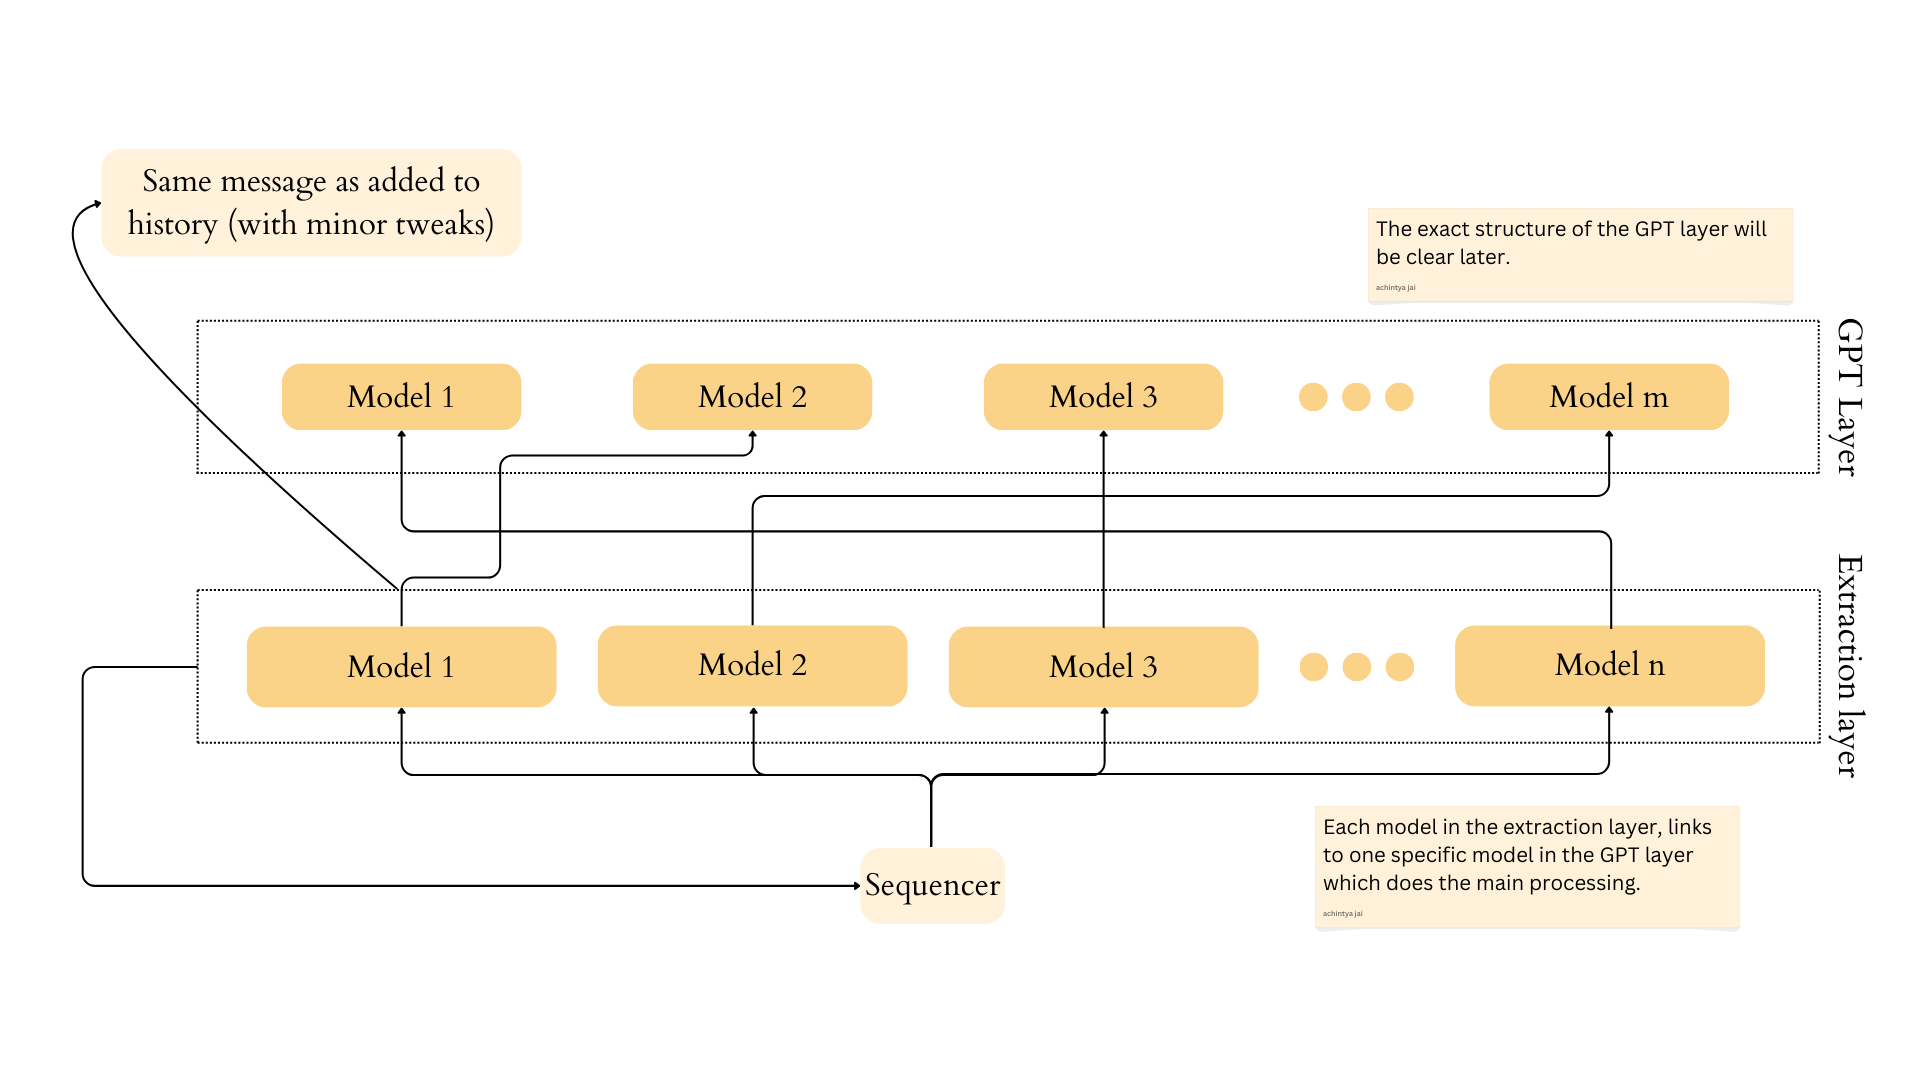
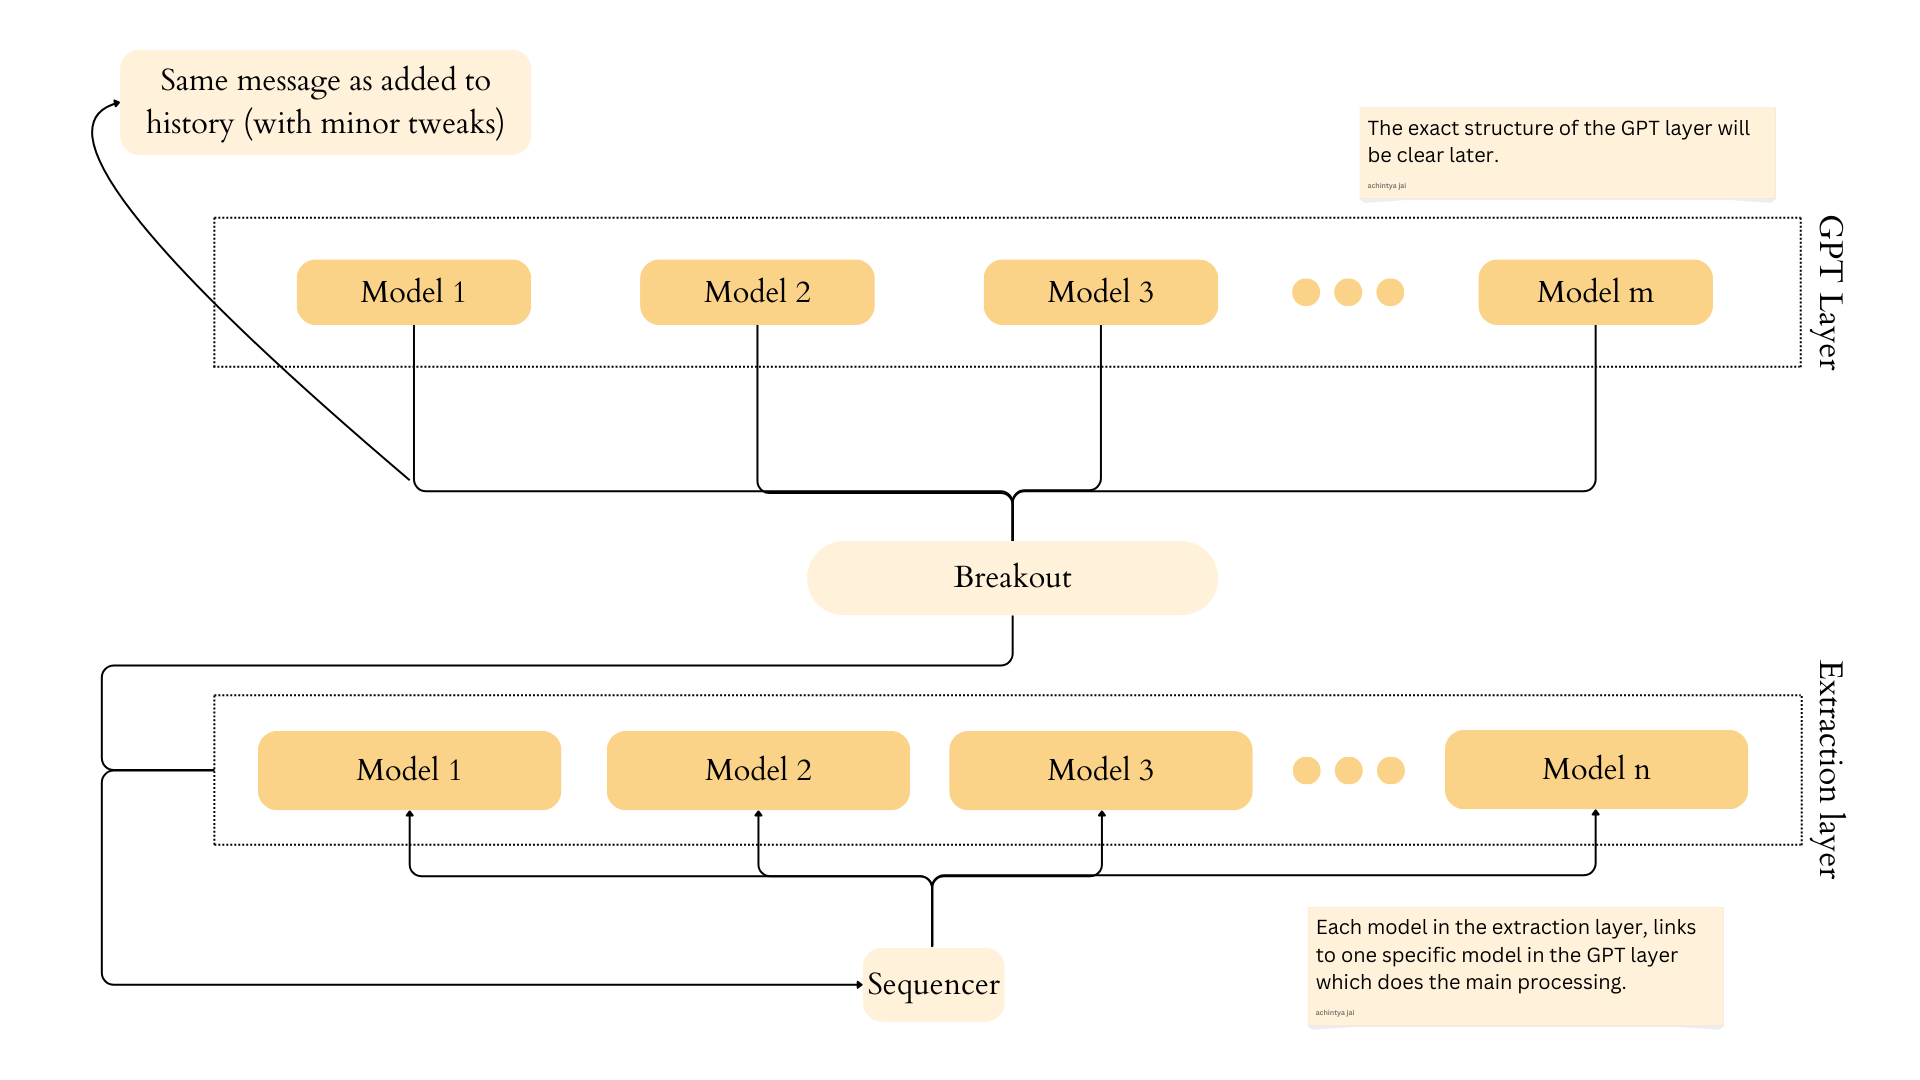
updated structure

diff --git a/extraction_models/client_5003.py b/extraction_models/client_5003.py
@@ -8,13 +8,21 @@ from google.generativeai.types import HarmCategory, HarmBlockThreshold
 import google.generativeai as genai
 from address import prompt_dict
 
+# -------------------------------------------------------------------------------------------------------------------------------------------------------------------
+#                                                                           GPT initializations
+# -------------------------------------------------------------------------------------------------------------------------------------------------------------------
+
 NAME = 'client_5003'
 
-API_KEY = "AIzaSyDgtJZg8o9fYUlJm9xeYNkRwzQ2nbZiHQI"   # Enter your API key here
+API_KEY = "AIzaSyDgtJZg8o9fYUlJm9xeYNkRwzQ2nbZiHQI"
 genai.configure(api_key=API_KEY)
 
 model = genai.GenerativeModel('gemini-pro')
 chat = model.start_chat(history=[])
+
+# -------------------------------------------------------------------------------------------------------------------------------------------------------------------
+#                                                                         Receiver and Sender class
+# -------------------------------------------------------------------------------------------------------------------------------------------------------------------
 
 class ReceiverSender:
     '''

diff --git a/extraction_models/client_5002.py b/extraction_models/client_5002.py
@@ -11,9 +11,10 @@ from address import prompt_dict
 # -------------------------------------------------------------------------------------------------------------------------------------------------------------------
 #                                                                           GPT initializations
 # -------------------------------------------------------------------------------------------------------------------------------------------------------------------
+
 NAME = 'client_5002'
 
-API_KEY = "AIzaSyDgtJZg8o9fYUlJm9xeYNkRwzQ2nbZiHQI"   # Enter your API key here
+API_KEY = ""
 genai.configure(api_key=API_KEY)
 
 model = genai.GenerativeModel('gemini-pro')

diff --git a/extraction_models/client_5001.py b/extraction_models/client_5001.py
@@ -11,6 +11,7 @@ from address import prompt_dict
 # -------------------------------------------------------------------------------------------------------------------------------------------------------------------
 #                                                                           GPT initializations
 # -------------------------------------------------------------------------------------------------------------------------------------------------------------------
+
 NAME = 'client_5001'
 
 API_KEY = "AIzaSyDgtJZg8o9fYUlJm9xeYNkRwzQ2nbZiHQI"

diff --git a/Sequencer/README.md b/Sequencer/README.md
@@ -5,10 +5,14 @@ Functionality
 - [x] Broadcast user's message to all clients.
 - [x] Receive feedback, that is, which model fired up and what the response was.
 
-The response will either be a binary or a tertiary, no more that than.
+> [!NOTE]
+> The response will either be a binary or a tertiary, no more that than.
 
-- [ ] Connect to supabase and push the feedback.
-- [ ] Before broadcasting, pull from database and add that to the user's message, explicitly mentioning it as `history`.
+- [x] Connect to supabase and push the feedback.
+- [x] Before broadcasting, pull from database and add that to the user's message, explicitly mentioning it as `history`.
+
+> [!IMPORTANT]
+> The sequencer will not send anything back to the breakout. The final response will be recieved by the `Model S`.
 
 ---
 
@@ -22,10 +26,12 @@ What works so far:
 
 - [x] Broadcaster is able to query the database and send history
 - [x] The client is able to receive history
-- [ ] The client gets the right things from history (that is, the GPT doesn't need ID and all)
-- [ ] The broadcaster is able to add to the database based on the response from the client
-- [ ] Establish comms with breakout 
+- [x] The client gets the right things from history (that is, the GPT doesn't need ID and all)
+- [x] The broadcaster is able to add to the database based on the response from the client
+- [ ] Establish comms with breakout
 
-Write same code for all clients, change the GPT's prompt.
+---
 
-Run and fix history. If there can only be 1 element in the queue, cause we're getting then why am I seeing two? CHECK THE PIC.
+- [x] History fixed. The logic is now to wait for 5 seconds for a response before checking if the `message_queue` is empty or not. 
+
+Before, it used to immediately do that, hence always resulting in an empty queue. If we receive a message within these 5 seconds, then we immediately proceed forward.

diff --git a/extraction_models/README.md b/extraction_models/README.md
@@ -4,6 +4,27 @@ This is how the basic structure of the `extraction layer`
 
 ![Extraction layer](./idea/ExtractionLayer.png)
 
+---
+
+## Functionality
+
+- [x] Each model receives user's prompt at roughly the same time.
+- [x] Models are able to extract the relevant features.
+- [x] The prompts are present in the `address.py` file, so creating new models (or clients) is a simple matter of copy and pasting the client codes.
+- [x] Models are able to judge based on history as well. 
+
+For example, if the user had mentioned that he is a man, and now he says he wants tea, then two models fire up, one that detects if the user is a man and the other that detects if he wants tea.
+
+> [!NOTE]
+> We want only one response. In actuality, what should've happened in the above case is, the 'detect if man' model should've fired up, if only it were relevant to the current prompt. Might be an easy, might be not.
+
+Now this is the **tricky part** because we can either have another breakout responsible for figuring out which message goes to which GPT model, or have the code in the clients themselves.
+
+> [!TIP]
+> Having a breakout is always better and costs nothing. Don't add too much logic in one part. Diversify.
+
+- [ ] Create breakout for comms with GPT layer.
+
 For sequencer logic, head over [here](../Sequencer/idea/Workflow_sequencer.md)
 
 For model logic, head over [here](./idea/Workflow_clients.md)
